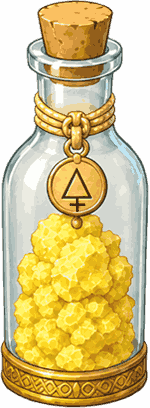
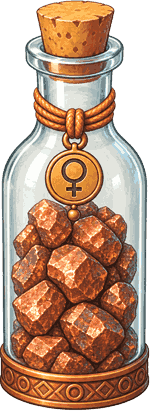
KEYNLOCK v325: sulfur bottle gets new art, reagent tubes actually stand on the table
Swapped bottle-sulfur.png for a supplied cuprum bottle image (same
filename, same data-element, just new pixels).

The reagent swatches were never really standing on the table — the "−"
button underneath them was, which read as correct at a glance but left
the tube glass itself 40px above the big bottles' shared line. Shifted
every translateY in the reagent group (swatch, both button positions,
the single-button and swatch compensations, short-screen equivalents)
down by that measured gap so the swatch's own bottom edge lands on the
line instead.

diff --git a/css/alchemy.css b/css/alchemy.css
@@ -609,7 +609,7 @@ body:has(#lairModuleWindow.open .lairPanel[data-lair-panel="alchemy"].active) .a
     transform-origin:bottom center;
   }
   .alchemyRoot .alchemyReagents .color-controls .color-card .mini-swatch{
-    transform:translateY(-168px) scale(1.3);
+    transform:translateY(-128px) scale(1.3);
     transform-origin:bottom center;
   }
   /* A card with only one control button (Separation's "−") has one less
@@ -624,7 +624,7 @@ body:has(#lairModuleWindow.open .lairPanel[data-lair-panel="alchemy"].active) .a
      an identical translateY above. Extra lift here (empirically the gap
      between the two, not a formula) brings it back level. */
   .alchemyRoot .alchemyReagents .color-card:has(.ctrl-row .small-btn:only-child) .mini-swatch{
-    transform:translateY(-200px) scale(1.3);
+    transform:translateY(-160px) scale(1.3);
     transform-origin:bottom center;
   }
   .alchemyRoot .alchemyReagents .color-card strong{display:none;}
@@ -694,13 +694,13 @@ body:has(#lairModuleWindow.open .lairPanel[data-lair-panel="alchemy"].active) .a
      box, not its visibly-higher one (transforms don't move flow) — same
      gap problem as the buttons-above fix, just the other direction.
      Pulled up to actually sit under the swatch instead of ~110px below it. */
-  .alchemyRoot .alchemyReagents .color-card .ctrl-row .small-btn:last-child{order:-1;transform:translateY(-183px);}
+  .alchemyRoot .alchemyReagents .color-card .ctrl-row .small-btn:last-child{order:-1;transform:translateY(-143px);}
   /* :not(:last-child) excludes Separation's single "Фильтр" button — it
      matches both :first-child and :last-child at once, and without this
      the two rules' conflicting translateY values (this one's -107px vs
      the other's -120px) fought each other, landing it 13px short of
      clearing the swatch. */
-  .alchemyRoot .alchemyReagents .color-card .ctrl-row .small-btn:first-child:not(:last-child){transform:translateY(-170px);}
+  .alchemyRoot .alchemyReagents .color-card .ctrl-row .small-btn:first-child:not(:last-child){transform:translateY(-130px);}
   /* Separation's single button matches :last-child too (it's the only
      child), so without this it inherits the rule above wholesale — same
      order:-1 flip AND the same big upward translateY the "+" button uses,
@@ -715,7 +715,7 @@ body:has(#lairModuleWindow.open .lairPanel[data-lair-panel="alchemy"].active) .a
      down and breaking the tube line across stations. Keeping order:-1
      preserves the leading flow slot (same flow height as "+"'s station),
      just aimed at a different landing spot via transform. */
-  .alchemyRoot .alchemyReagents .color-card .ctrl-row .small-btn:only-child{transform:translateY(-95px);}
+  .alchemyRoot .alchemyReagents .color-card .ctrl-row .small-btn:only-child{transform:translateY(-55px);}
   /* цель/текущая смесь sat where the bench bottles used to be before this
      file's "stand on the table" pass — .swatch-label's own position is
      unmoved (still top:100% of the *original*, untransformed tube-box),
@@ -778,7 +778,7 @@ body:has(#lairModuleWindow.open .lairPanel[data-lair-panel="alchemy"].active) .a
     transform:translateY(-55px) scale(.6);
   }
   .alchemyRoot .alchemyReagents .color-controls .color-card .mini-swatch{
-    transform:translateY(-105px) scale(1.3);
+    transform:translateY(-71px) scale(1.3);
   }
   /* The wide rule's own :has() compensation (a few hundred lines up) is
      scoped to plain min-width:900px, which this short-screen query is
@@ -789,16 +789,16 @@ body:has(#lairModuleWindow.open .lairPanel[data-lair-panel="alchemy"].active) .a
      this block's smaller raise, same card-height-deficit reasoning as
      the wide comment. */
   .alchemyRoot .alchemyReagents .color-card:has(.ctrl-row .small-btn:only-child) .mini-swatch{
-    transform:translateY(-132px) scale(1.3);
+    transform:translateY(-98px) scale(1.3);
   }
   .alchemyRoot .scene.active .alchemyElementCell{
     transform:translateX(-30px) translateY(-20px) scale(1.1);
   }
-  .alchemyRoot .alchemyReagents .color-card .ctrl-row .small-btn:last-child{transform:translateY(-120px);}
-  .alchemyRoot .alchemyReagents .color-card .ctrl-row .small-btn:first-child:not(:last-child){transform:translateY(-107px);}
+  .alchemyRoot .alchemyReagents .color-card .ctrl-row .small-btn:last-child{transform:translateY(-86px);}
+  .alchemyRoot .alchemyReagents .color-card .ctrl-row .small-btn:first-child:not(:last-child){transform:translateY(-73px);}
   /* Same "below, not above" fix as the wide rule above, scaled down for
      the short-screen raise amounts. */
-  .alchemyRoot .alchemyReagents .color-card .ctrl-row .small-btn:only-child{transform:translateY(-45px);}
+  .alchemyRoot .alchemyReagents .color-card .ctrl-row .small-btn:only-child{transform:translateY(-11px);}
   .alchemyRoot .swatch-label{transform:translateX(-50%) translateY(-75px);}
   .alchemyRoot .target-element-hint{transform:translateX(-50%) translateY(-75px);}
 }

diff --git a/prototypes/alchemy/README.md b/prototypes/alchemy/README.md
@@ -34,7 +34,7 @@ running game changes nothing.
 Nothing was removed: checked for dead CSS and there is none. All 169 classes
 are referenced, several only from template strings in the script.
 
-## Where this stands (v324)
+## Where this stands (v325)
 
 In the game: `js/world/alchemy.js`, `css/alchemy.css`, `assets/alchemy/`,
 reached from a lair hotspot. Three color-game stations run — mixing,
@@ -828,6 +828,29 @@ its own `:has()` override, at equal-or-higher specificity, inside the
 short-screen block itself — matching that block's own established
 pattern of shadowing the wide numbers wholesale rather than layering on
 top of them.
+
+**v325 swapped the sulfur rack bottle's art** (`assets/alchemy/bottle-sulfur.png`,
+still that filename — only the pixels changed, `data-element="sulfur"`
+and the DOM/markup are untouched) for a supplied `cuprum_bottle_04.png`
+(150×411, close enough to the original 150×408 that nothing needed
+retuning).
+
+**And fixed what "the tube line" actually meant — it was the reagent
+swatch's own *bottom edge* the whole time, not wherever its "−" button
+happened to land.** Every earlier "stand on the table" pass (v311
+onward) tuned the swatch and its buttons together as one unit, always by
+eye against a screenshot — close enough each time to look right, but the
+actual anchor was never verified against the *big* bottles' own bottom
+edge until asked directly. Measured: the reagent swatch's rendered bottom
+sat 40px above the big bottles' (matched only by the "−" button
+underneath it, which is why it read as "the tubes are already on the
+table" at a glance — something was there, just the wrong something).
+Every `translateY` in the reagent group — the swatch, both button
+positions, the single-button compensation, and its own swatch
+compensation — shifted down by that same 40px (34px at the short-screen
+scale) so the swatch's bottom, not the button's, lands on the shared
+line. The buttons drop below the table edge as a result, which reads
+fine since they're controls, not glassware standing on the wood.
 
 ## Two things that cost hours — do not rediscover them
 
